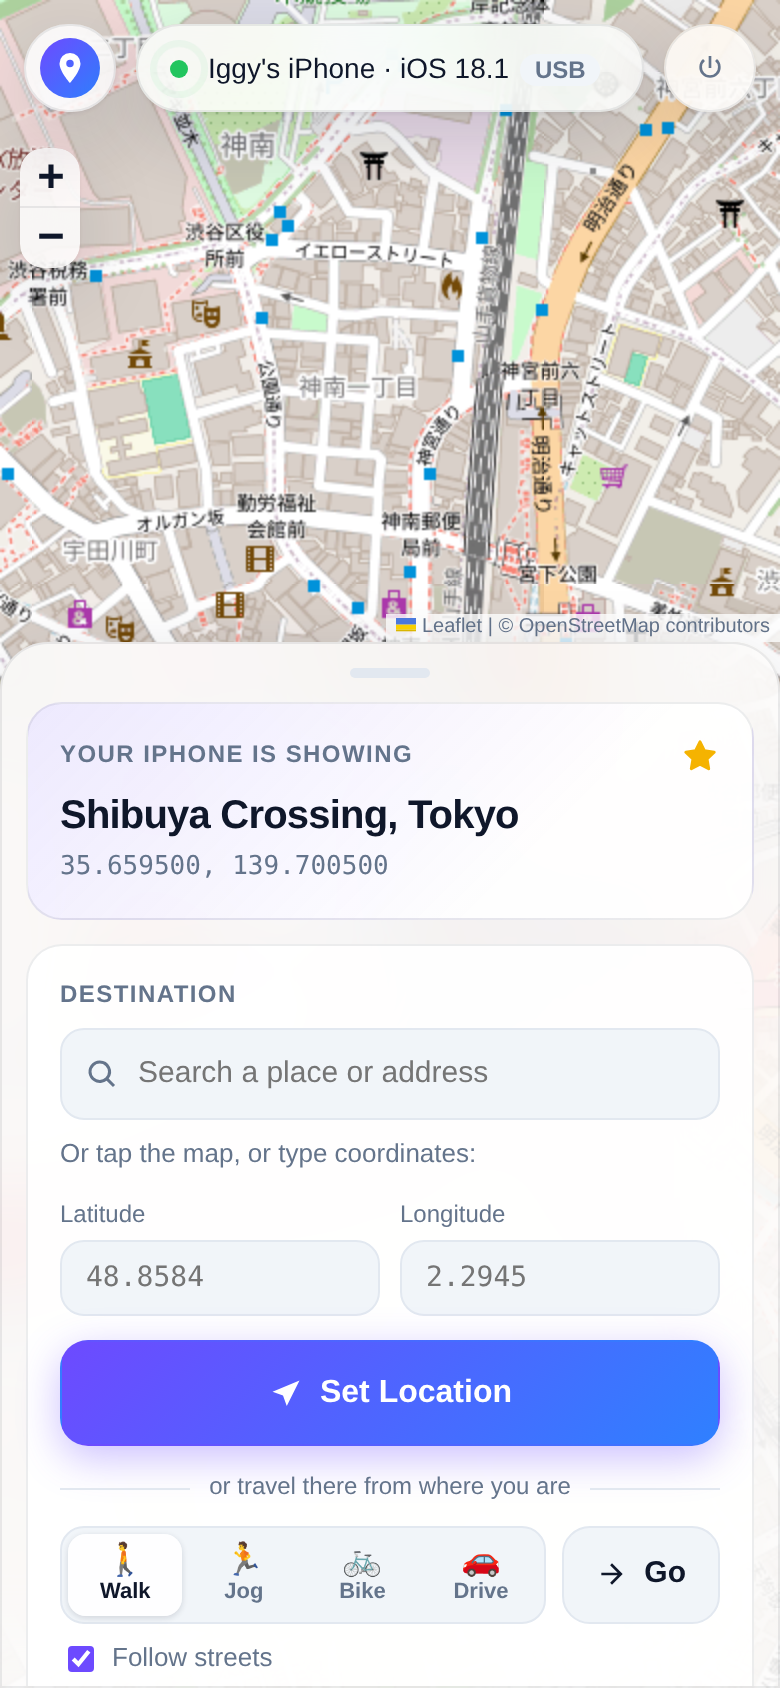
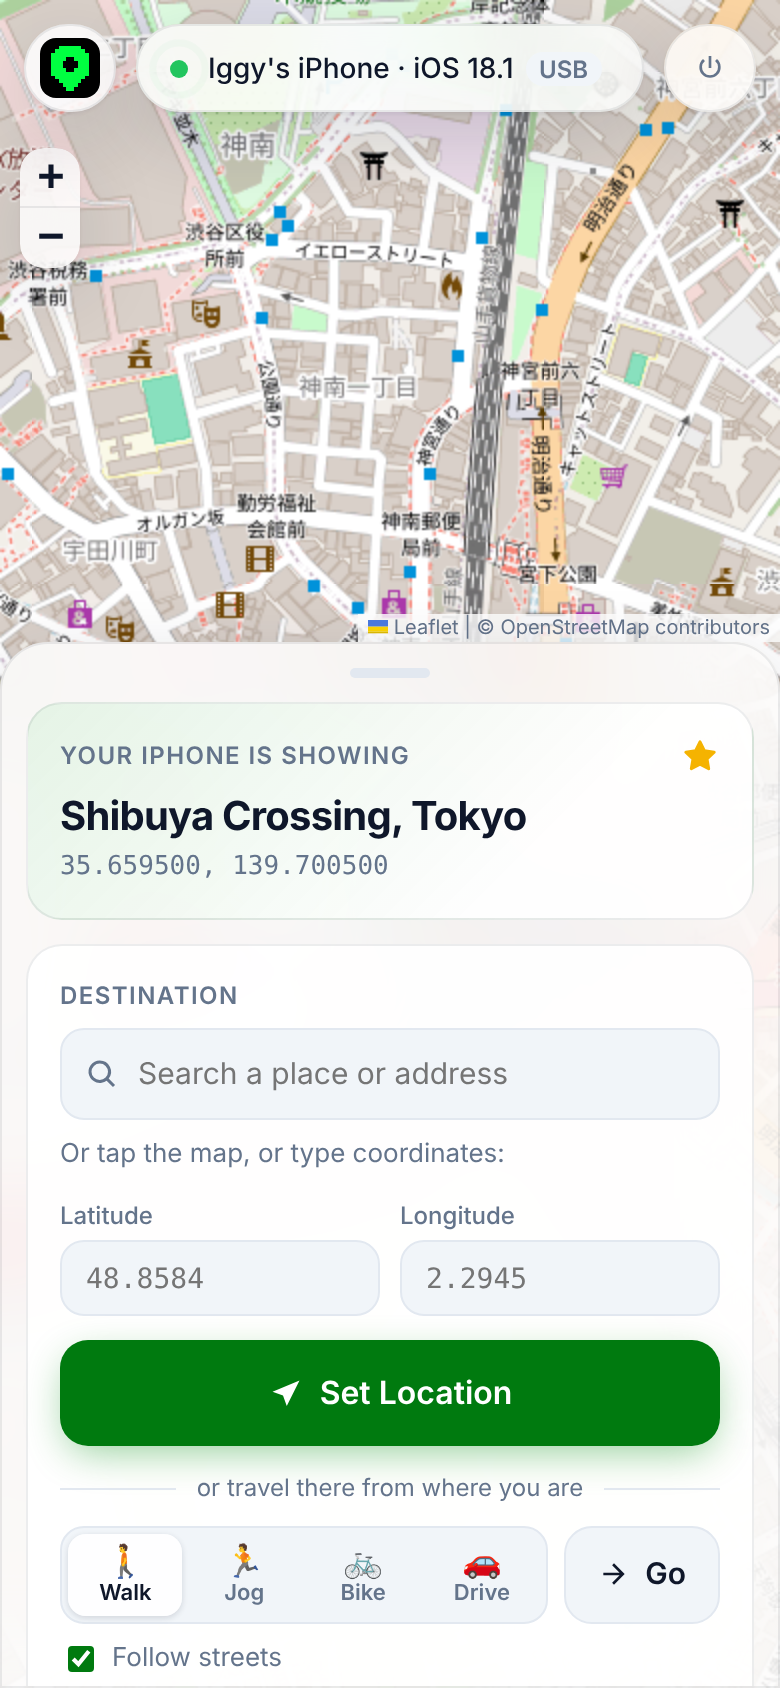
Replace the app's purple accent with the design system's green
Swap the web app's accent tokens for Matrix green (#007a0f light,
#00ff41 dark) with on-accent text, use the pixel-pin mark in the top
bar and as the favicon, draw the walk route in the accent colour, and
retake the README screenshots.

Claude-Session: https://claude.ai/code/session_0114TB2AjHhh6QLLsd7WL9Gc

diff --git a/static/style.css b/static/style.css
@@ -7,9 +7,12 @@
   --muted: #64748b;
   --field: #f1f5f9;
   --field-border: #e2e8f0;
-  --accent: #6d4aff;
-  --accent-2: #2f80ff;
-  --accent-soft: rgba(109, 74, 255, 0.12);
+  /* Matrix green, from the Location Jump design system. --accent-2 matches --accent so fills stay flat. */
+  --accent: #007a0f;
+  --accent-2: #007a0f;
+  --accent-soft: rgba(0, 143, 17, 0.1);
+  --accent-glow: rgba(0, 143, 17, 0.45);
+  --on-accent: #ffffff;
   --danger: #e5484d;
   --ok: #22c55e;
   --warn: #f59e0b;
@@ -27,9 +30,11 @@
     --muted: #94a3b8;
     --field: rgba(255, 255, 255, 0.06);
     --field-border: rgba(255, 255, 255, 0.1);
-    --accent: #8b6bff;
-    --accent-2: #4f9bff;
-    --accent-soft: rgba(139, 107, 255, 0.18);
+    --accent: #00ff41;
+    --accent-2: #00ff41;
+    --accent-soft: rgba(0, 255, 65, 0.12);
+    --accent-glow: rgba(0, 255, 65, 0.35);
+    --on-accent: #000000;
     --shadow: 0 1px 2px rgba(0, 0, 0, 0.4), 0 16px 48px rgba(0, 0, 0, 0.5);
   }
 }
@@ -68,10 +73,7 @@ body {
   background: var(--glass); border: 1px solid var(--card-border); border-radius: 999px;
   box-shadow: var(--shadow); backdrop-filter: blur(20px) saturate(1.6); -webkit-backdrop-filter: blur(20px) saturate(1.6);
 }
-.brand-mark {
-  display: grid; place-items: center; width: 30px; height: 30px; border-radius: 50%; color: #fff;
-  background: linear-gradient(135deg, var(--accent), var(--accent-2));
-}
+.brand-mark { display: block; width: 30px; height: 30px; border-radius: 8px; }
 .brand-name { font-weight: 700; letter-spacing: -0.01em; }
 .status { padding: 0 16px; font-size: 14px; font-weight: 500; }
 .status .dot { position: relative; width: 9px; height: 9px; border-radius: 50%; background: var(--muted); flex: none; }
@@ -242,7 +244,7 @@ button.status { font-family: inherit; color: var(--text); cursor: default; }
 .saved-text { min-width: 0; }
 .saved-name { display: block; font-weight: 600; font-size: 14px; white-space: nowrap; overflow: hidden; text-overflow: ellipsis; }
 .saved-coords { display: block; font: 12px ui-monospace, "SF Mono", Menlo, monospace; color: var(--muted); }
-.saved-list li.current .saved-icon { color: #fff; background: linear-gradient(135deg, var(--accent), var(--accent-2)); }
+.saved-list li.current .saved-icon { color: var(--on-accent); background: linear-gradient(135deg, var(--accent), var(--accent-2)); }
 .saved-list .icon-btn { margin: 0 4px 0 0; opacity: 0; }
 .saved-list li:hover .icon-btn, .saved-list .icon-btn:focus-visible, .saved-list .icon-btn[aria-pressed="true"] { opacity: 1; }
 @media (hover: none) { .saved-list .icon-btn { opacity: 1; } }
@@ -282,9 +284,9 @@ button.status { font-family: inherit; color: var(--text); cursor: default; }
 .btn:disabled { opacity: .6; cursor: progress; }
 .btn:focus-visible { outline: none; box-shadow: 0 0 0 3px var(--accent-soft); }
 .btn-primary {
-  color: #fff; font-size: 16px; padding: 14px;
+  color: var(--on-accent); font-size: 16px; padding: 14px;
   background: linear-gradient(135deg, var(--accent), var(--accent-2));
-  box-shadow: 0 6px 20px rgba(109, 74, 255, 0.35);
+  box-shadow: 0 6px 20px -4px var(--accent-glow);
 }
 .btn-primary:hover:not(:disabled) { filter: brightness(1.07); }
 .btn-row { display: grid; grid-template-columns: 1fr; gap: 8px; margin-top: 8px; }

diff --git a/templates/index.html b/templates/index.html
@@ -4,6 +4,7 @@
   <meta charset="utf-8">
   <meta name="viewport" content="width=device-width, initial-scale=1, viewport-fit=cover">
   <title>Location Jump</title>
+  <link rel="icon" href="{{ url_for('static', filename='favicon.svg') }}" type="image/svg+xml">
   <link rel="icon" type="image/png" href="{{ url_for('static', filename='icon.png') }}">
   <link rel="stylesheet" href="{{ url_for('static', filename='vendor/leaflet/leaflet.css') }}">
   <link rel="stylesheet" href="{{ url_for('static', filename='style.css') }}">
@@ -13,9 +14,7 @@
 
   <header class="topbar">
     <div class="brand">
-      <span class="brand-mark" aria-hidden="true">
-        <svg viewBox="0 0 24 24" width="18" height="18"><path fill="currentColor" d="M12 2a7 7 0 0 0-7 7c0 5.25 7 13 7 13s7-7.75 7-13a7 7 0 0 0-7-7Zm0 9.5A2.5 2.5 0 1 1 12 6.5a2.5 2.5 0 0 1 0 5Z"/></svg>
-      </span>
+      <img class="brand-mark" src="{{ url_for('static', filename='favicon.svg') }}" alt="" width="30" height="30">
       <span class="brand-name">Location Jump</span>
     </div>
     <div class="device-picker">

diff --git a/static/app.js b/static/app.js
@@ -33,7 +33,8 @@ const phoneMarker = L.marker([0, 0], {
   keyboard: false,
   zIndexOffset: 1000,
 });
-const routeLine = L.polyline([], { color: "#6d4aff", weight: 5, opacity: 0.75, dashArray: "2 9", lineCap: "round" });
+const accent = getComputedStyle(document.documentElement).getPropertyValue("--accent").trim() || "#007a0f";
+const routeLine = L.polyline([], { color: accent, weight: 5, opacity: 0.75, dashArray: "2 9", lineCap: "round" });
 let routeId = null;    // which walk the route line is drawn for
 let flownTo = null;    // last anchor we zoomed the map to
 let pickLabel = null;  // name of the picked spot, when it came from search or a saved place

diff --git a/CHANGELOG.md b/CHANGELOG.md
@@ -6,6 +6,7 @@ All notable changes to Location Jump. Versions follow [semantic versioning](http
 
 ### Changed
 - **New identity.** The pixel-pin icon replaces the old app icon (Mac app, web app and website), with a pixel favicon, an Apple touch icon and a 1200×630 link-preview image.
+- **The app is Matrix green too.** The purple accent in the Mac app's web interface (buttons, switches, the route line, the phone dot) is now the design system's green, with black text on green in dark mode; the top bar shows the pixel-pin mark. README screenshots retaken.
 - **Website follows the Location Jump design system**: dot-grid hero, Geist Mono kickers with a `>` prefix, numbered feature cards, a tagline that lights up in green with a block cursor, a green ring on screenshot windows, hairline section rules, and warning, danger and status colours that keep 4.5:1 contrast in both themes.
 
 ## [1.1.0] - 2026-10-26
